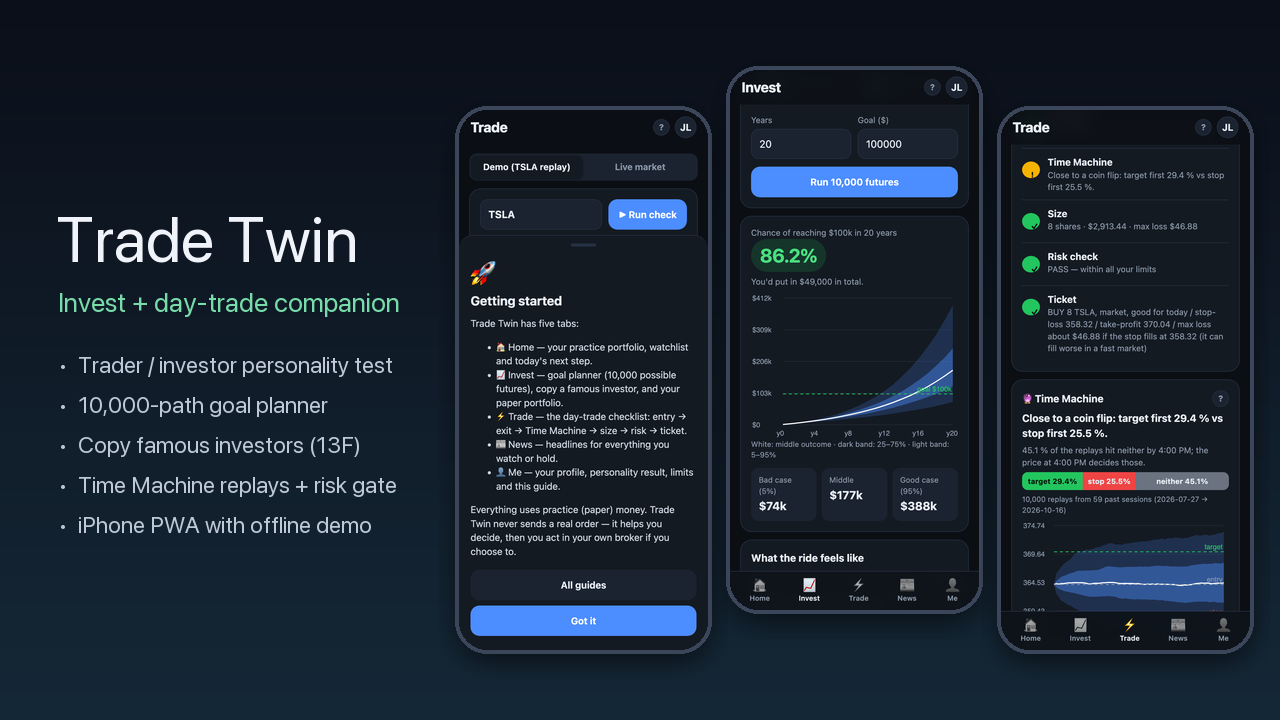
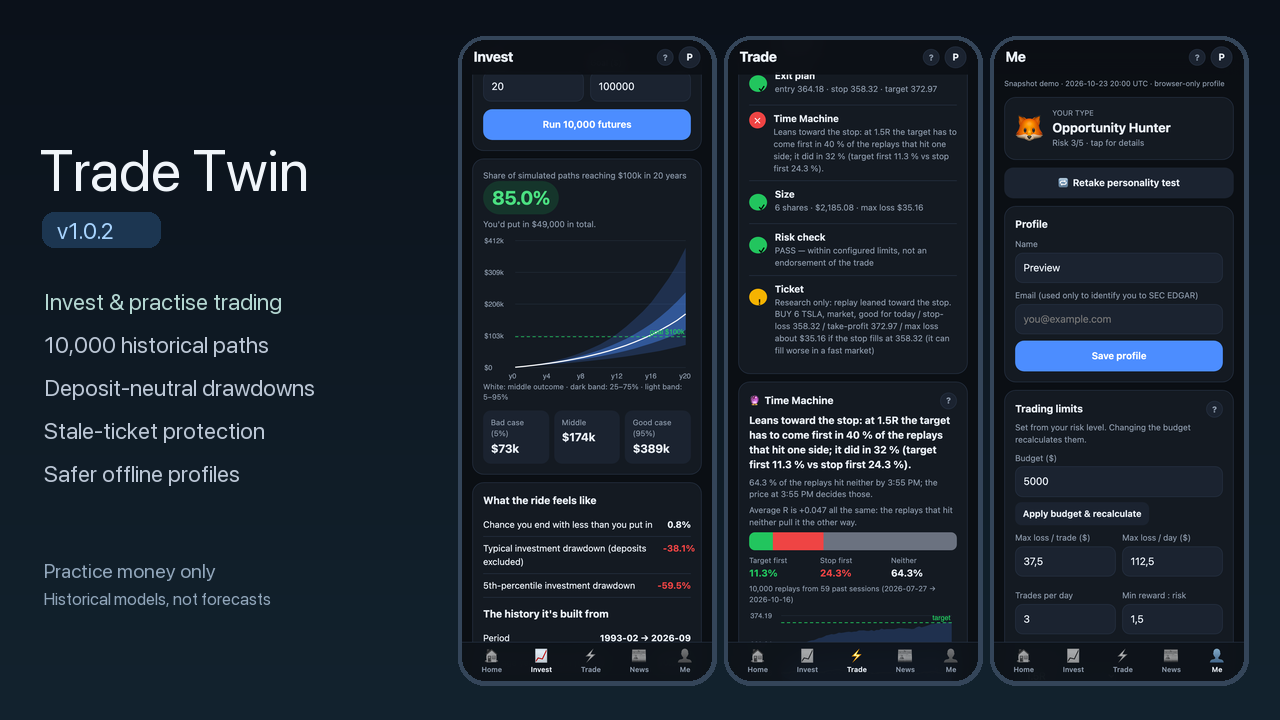
Trade Twin 1.0.2: refresh project details and verified UI images

diff --git a/index.html b/index.html
@@ -354,11 +354,11 @@
           </article>
           
           <article class="project-card" data-category="Software">
-            <img src="./assets/projects/trade-twin.png" alt="Trade Twin on iPhone: the getting-started guide, a 10,000-future goal fan chart, and the day-trade checklist with the Time Machine verdict" class="project-card-image" loading="lazy" decoding="async">
+            <img src="./assets/projects/trade-twin.png" alt="Trade Twin v1.0.2: goal simulation with deposit-neutral drawdown and a token-bound practice trade checklist" class="project-card-image" loading="lazy" decoding="async">
             <div class="project-content">
               <span class="project-category">Software</span>
               <h3 class="project-title">Trade Twin</h3>
-              <p class="project-description">An iPhone-ready investing and day-trading companion. A 10-question personality test sets your type and guard-rails (max loss per trade, daily stop, reward:risk); paper trading at real delayed prices; a goal planner that simulates 10,000 futures from real monthly history; copy a famous investor&rsquo;s latest SEC 13F into a practice portfolio; a news feed; and a day-trade checklist whose Time Machine replays the session 10,000 times before you size the trade. Stdlib Python backend + installable PWA; the web build runs offline on a data snapshot. Practice money only &mdash; not financial advice.</p>
+              <p class="project-description">An iPhone-ready practice investing and day-trading companion. An educational preferences quiz sets editable risk limits; paper portfolios, a goal planner with 10,000 historical-bootstrap paths, SEC 13F research and a dated news feed. Version 1.0.2 adds deposit-neutral drawdowns, plan-aligned replay exits, stale-ticket protection, browser-profile isolation and a complete offline demo. Stdlib Python backend for live delayed data; installable PWA and snapshot web demo. No real orders; simulations are not forecasts or financial advice.</p>
               <div class="project-tags">
                 <span class="tag">Python</span>
                 <span class="tag">PWA</span>
